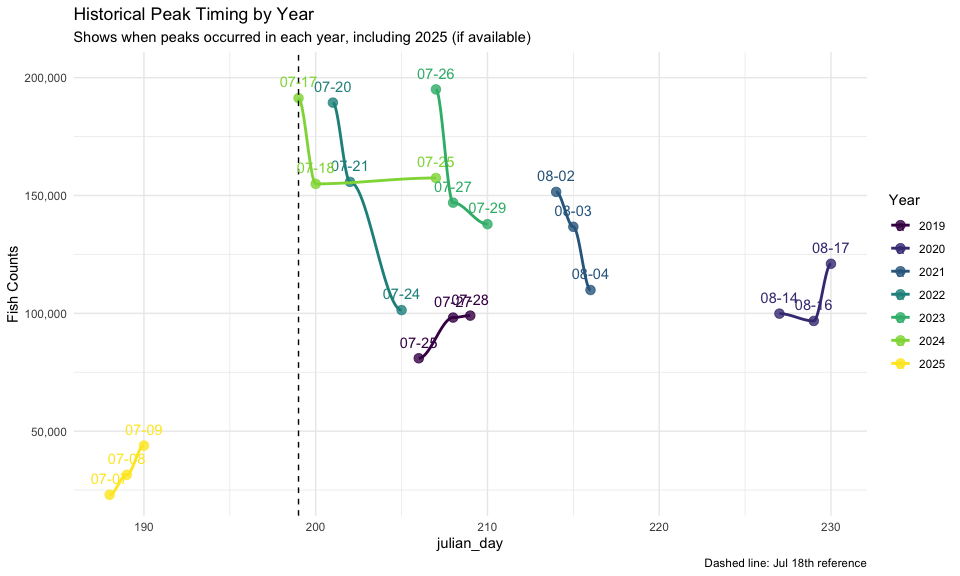
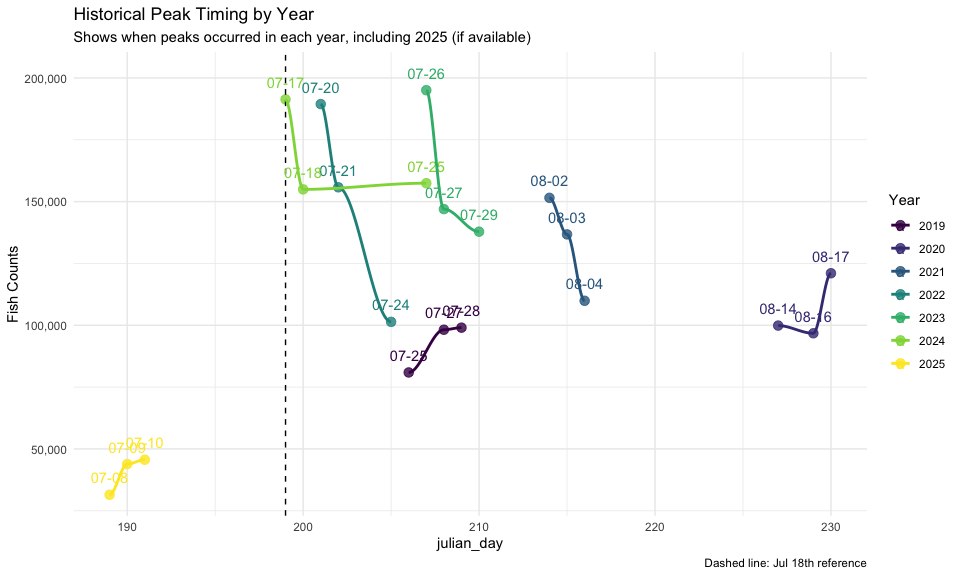
daily update

diff --git a/kenai_sockeye_counts.md b/kenai_sockeye_counts.md
@@ -2,7 +2,7 @@ Kenai River Sockeye Salmon Count Forecasting: Daily Fish Count
 Predictions
 ================
 Joe Hicks
-updated: 2025-07-11
+updated: 2025-07-14
 
 - [Summary](#summary)
 - [Data Loading & Preparation](#data-loading--preparation)
@@ -193,9 +193,9 @@ tidy(ets_model) |>
   kable(caption = "ETS Model Summary")
 ```
 
-| method     |     aic | sigma2 | loglik |
-|:-----------|--------:|-------:|-------:|
-| ETS(M,N,N) | 1333.99 |   0.08 |   -664 |
+| method     |     aic | sigma2 |  loglik |
+|:-----------|--------:|-------:|--------:|
+| ETS(M,N,N) | 1330.29 |   0.07 | -662.15 |
 
 ETS Model Summary
 
@@ -210,7 +210,7 @@ checkresiduals(ets_model)
     ##  Ljung-Box test
     ## 
     ## data:  Residuals from ETS(M,N,N)
-    ## Q* = 8.6695, df = 10, p-value = 0.5637
+    ## Q* = 8.3203, df = 10, p-value = 0.5976
     ## 
     ## Model df: 0.   Total lags used: 10
 
@@ -405,11 +405,11 @@ predicted_peaks_updated |>
 
 | peak_rank | date_2025 | month_day | predicted_count | adjusted_prediction | data_status |
 |---:|:---|:---|---:|---:|:---|
-| 1 | 2025-07-27 | 07-27 | 91783 | 173845 | Future prediction |
-| 2 | 2025-07-21 | 07-21 | 82692 | 156626 | Future prediction |
-| 3 | 2025-07-28 | 07-28 | 81110 | 153629 | Future prediction |
-| 4 | 2025-07-22 | 07-22 | 72706 | 137711 | Future prediction |
-| 5 | 2025-07-29 | 07-29 | 72585 | 137482 | Future prediction |
+| 1 | 2025-07-27 | 07-27 | 91783 | 188056 | Future prediction |
+| 2 | 2025-07-21 | 07-21 | 82692 | 169430 | Future prediction |
+| 3 | 2025-07-28 | 07-28 | 81110 | 166189 | Future prediction |
+| 4 | 2025-07-22 | 07-22 | 72706 | 148968 | Future prediction |
+| 5 | 2025-07-29 | 07-29 | 72585 | 148721 | Future prediction |
 
 Top 5 Predicted Peak Days for 2025
 
@@ -617,6 +617,6 @@ kable(true_accuracy_metrics)
 
 | n_observations | mean_abs_error | median_abs_error | mean_pct_error |  rmse |
 |---------------:|---------------:|-----------------:|---------------:|------:|
-|              9 |           9991 |             8204 |           49.6 | 12584 |
+|             12 |          11447 |             8391 |           48.2 | 14066 |
 
 ------------------------------------------------------------------------
